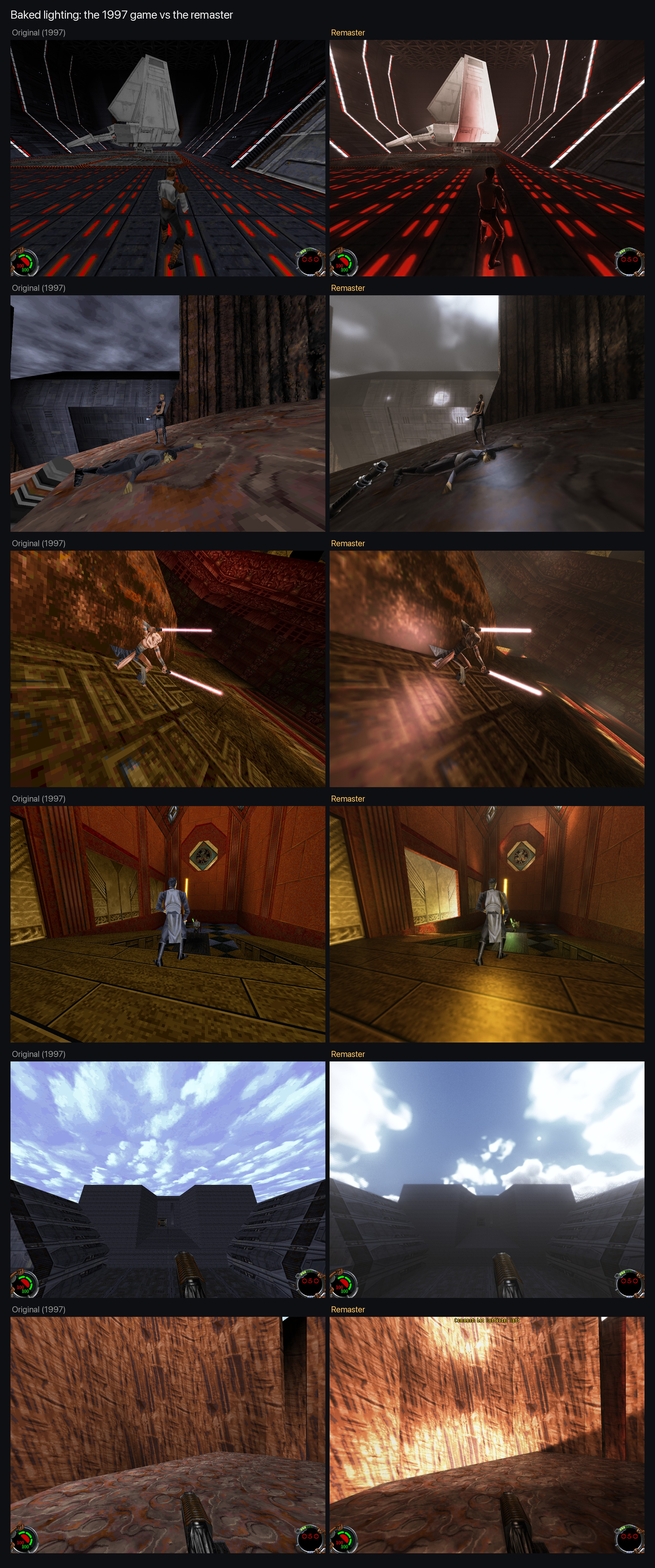
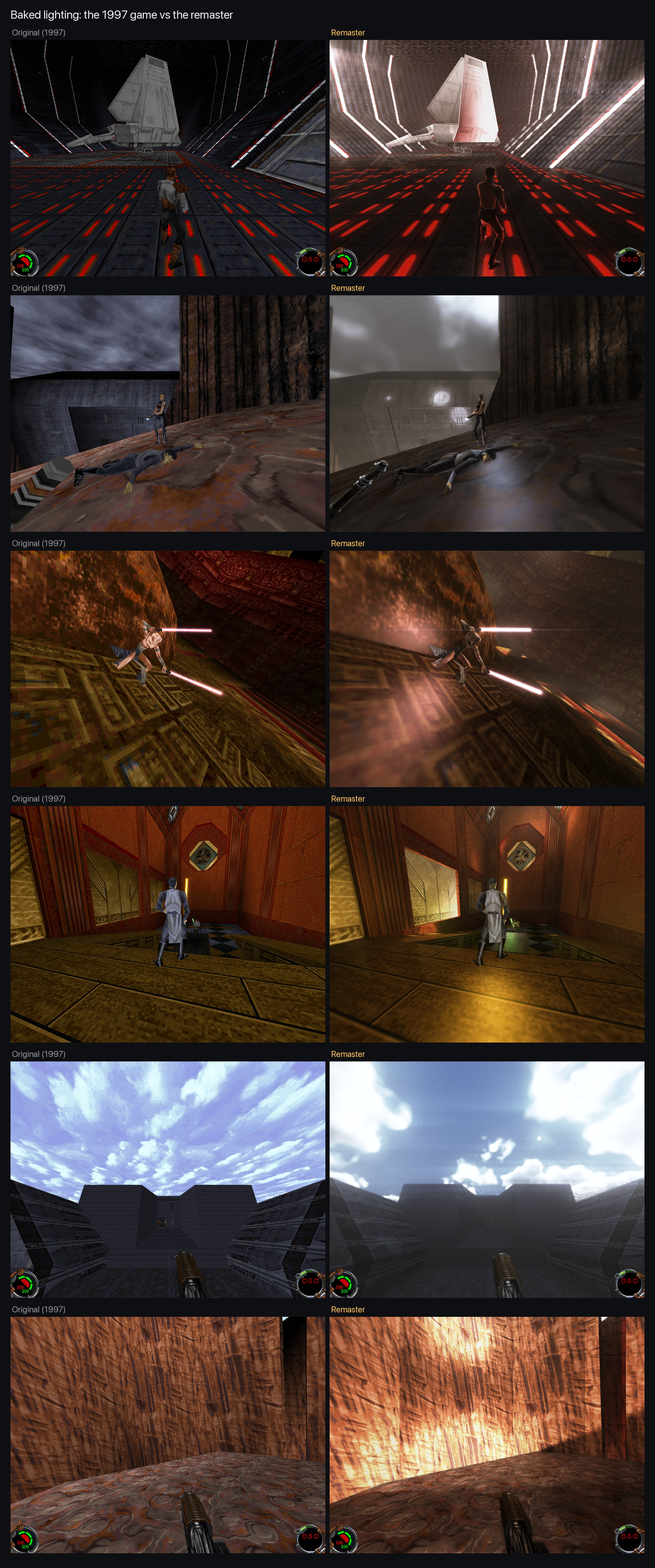
Homepage: bloom and lens flares, comparisons recaptured

Changed region(s): [[0.75, 0.0, 1.0, 0.1247], [0.5, 0.0, 0.7188, 0.1247], [0.7812, 0.6857, 0.8125, 0.7168]]

diff --git a/docs/DECISIONS.md b/docs/DECISIONS.md
@@ -633,3 +633,5 @@ Dom approved docs/stage2-atmosphere-plan.md. Branch `stage2-atmosphere`.
 **Homepage comparisons are all 1997 vs remaster** (Dom: the light maps image was wrong, "make sure everything on that page shows actual original 97 gfx vs new versions"). `scripts/capture_showcase.sh orig|remaster [views]` captures 11 standard views (Nar Shaddaa first and third person, hangar, Sarris, Boc, Yun, cargo yard, tower, fuel station, Barons Hed, saber). The README's Latest section now only shows those pairs, the cast sheet, Texture God's texture sheet and the cutscenes; feature on/off and tuning images stay here in the log.
 
 **Push window** (Dom, 2026-11-12): no pushing Mon-Fri before 18:00; commits stay local until then.
+
+**Bloom on light fixtures and lens flares** (Dom: "that overhead light needs to bloom and have some flares"). Bloom only read the emissive buffer (glow maps, sabers, sky), so ordinary bright textures like Nar Shaddaa's skylight never bloomed. Now level faces whose texture is near-white (luminance over 0.8) and lit to near full brightness feed bloom (`r_fixtureBloom` 1): skylights, lamps and light panels in every level. Characters are excluded (bright uniforms bloomed in the first try). New lens flare pass (`r_lensFlares`, in the remaster preset; `r_flareStrength` 1) on the bloom source: a cool anamorphic horizontal streak, four tinted ghosts through the screen centre and a faint halo. docs/screenshots/stage2-bloom-flares.jpg. All homepage comparisons recaptured with it.

diff --git a/.github/README.md b/.github/README.md
@@ -129,6 +129,10 @@ Six levels, 1997 vs remaster:
 
 ![The 1997 game vs the remaster](../docs/screenshots/stage2-1997-vs-remaster.jpg)
 
+**Bloom and lens flares:** bright light fixtures (skylights, lamps, light panels) bloom, and everything bright throws a film-style anamorphic streak and lens ghosts:
+
+![Bloom and lens flare, 1997 vs remaster](../docs/screenshots/stage2-bloom-flares.jpg)
+
 **Skies:** a volumetric cloud sky on the storm levels and presets for the rest (Nar Shaddaa smog, Sulon overcast, day and sunset skies):
 
 ![Skies, 1997 vs remaster](../docs/screenshots/stage2-volumetric-sky.jpg)
